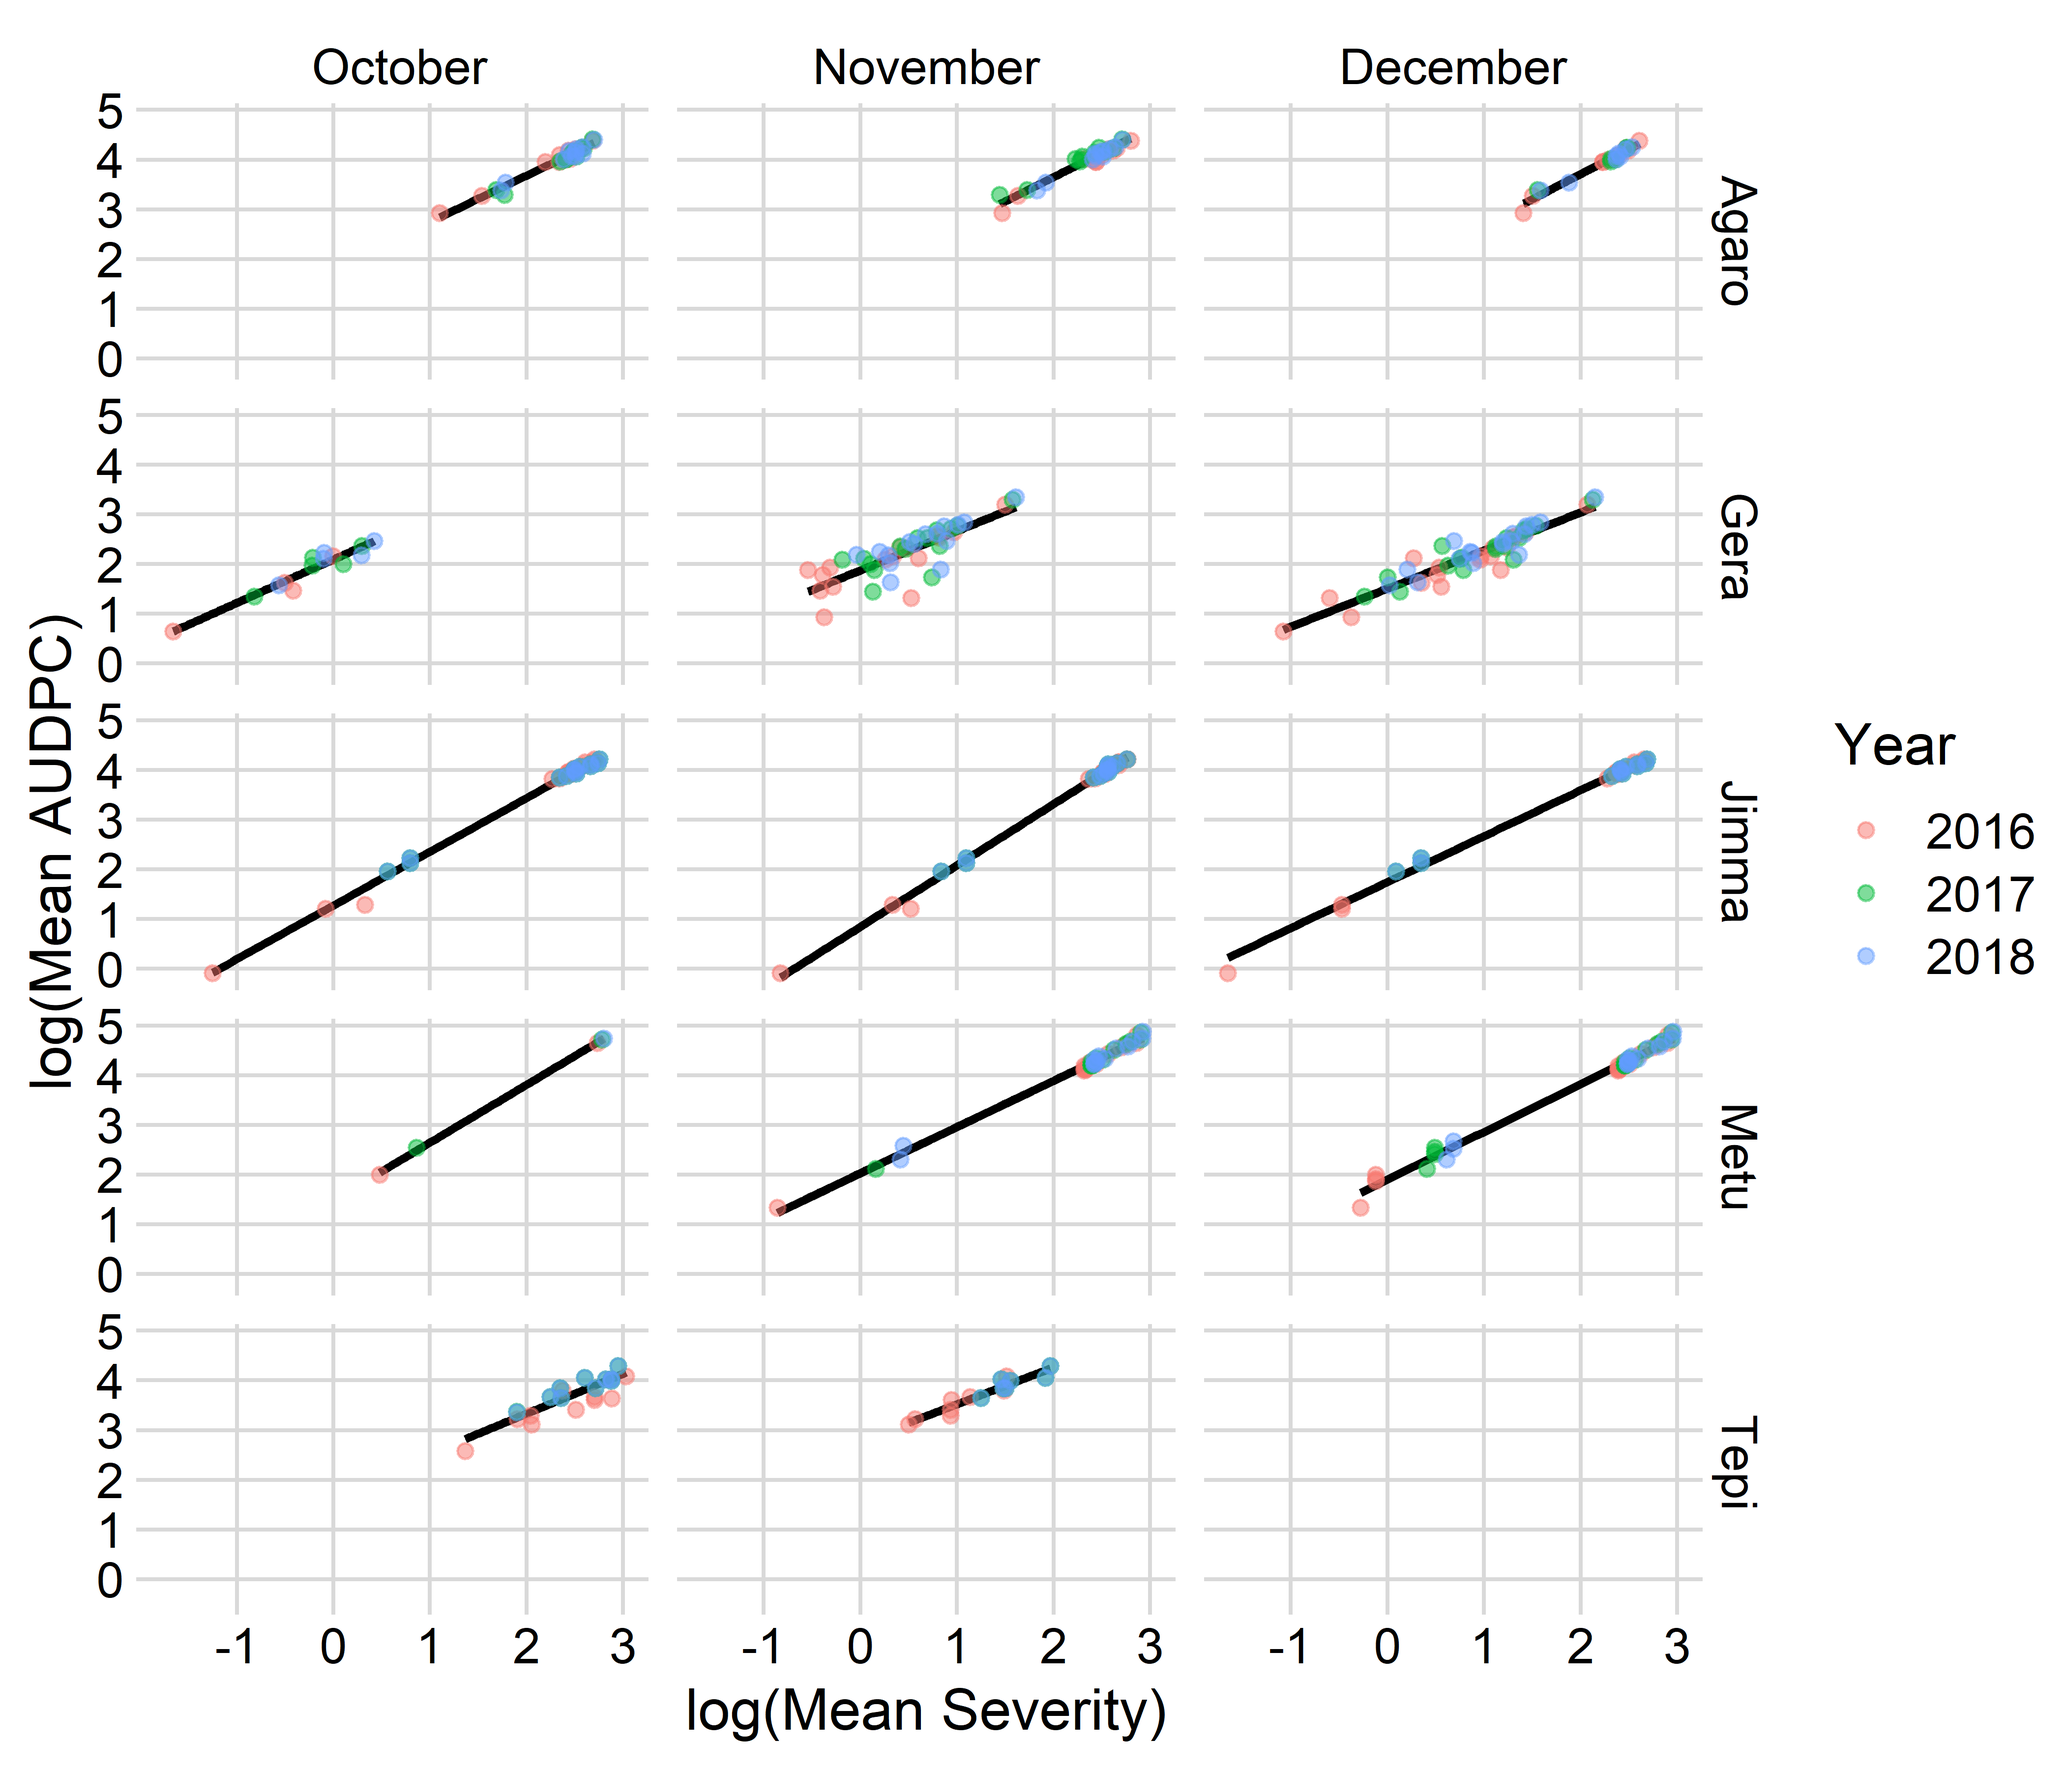
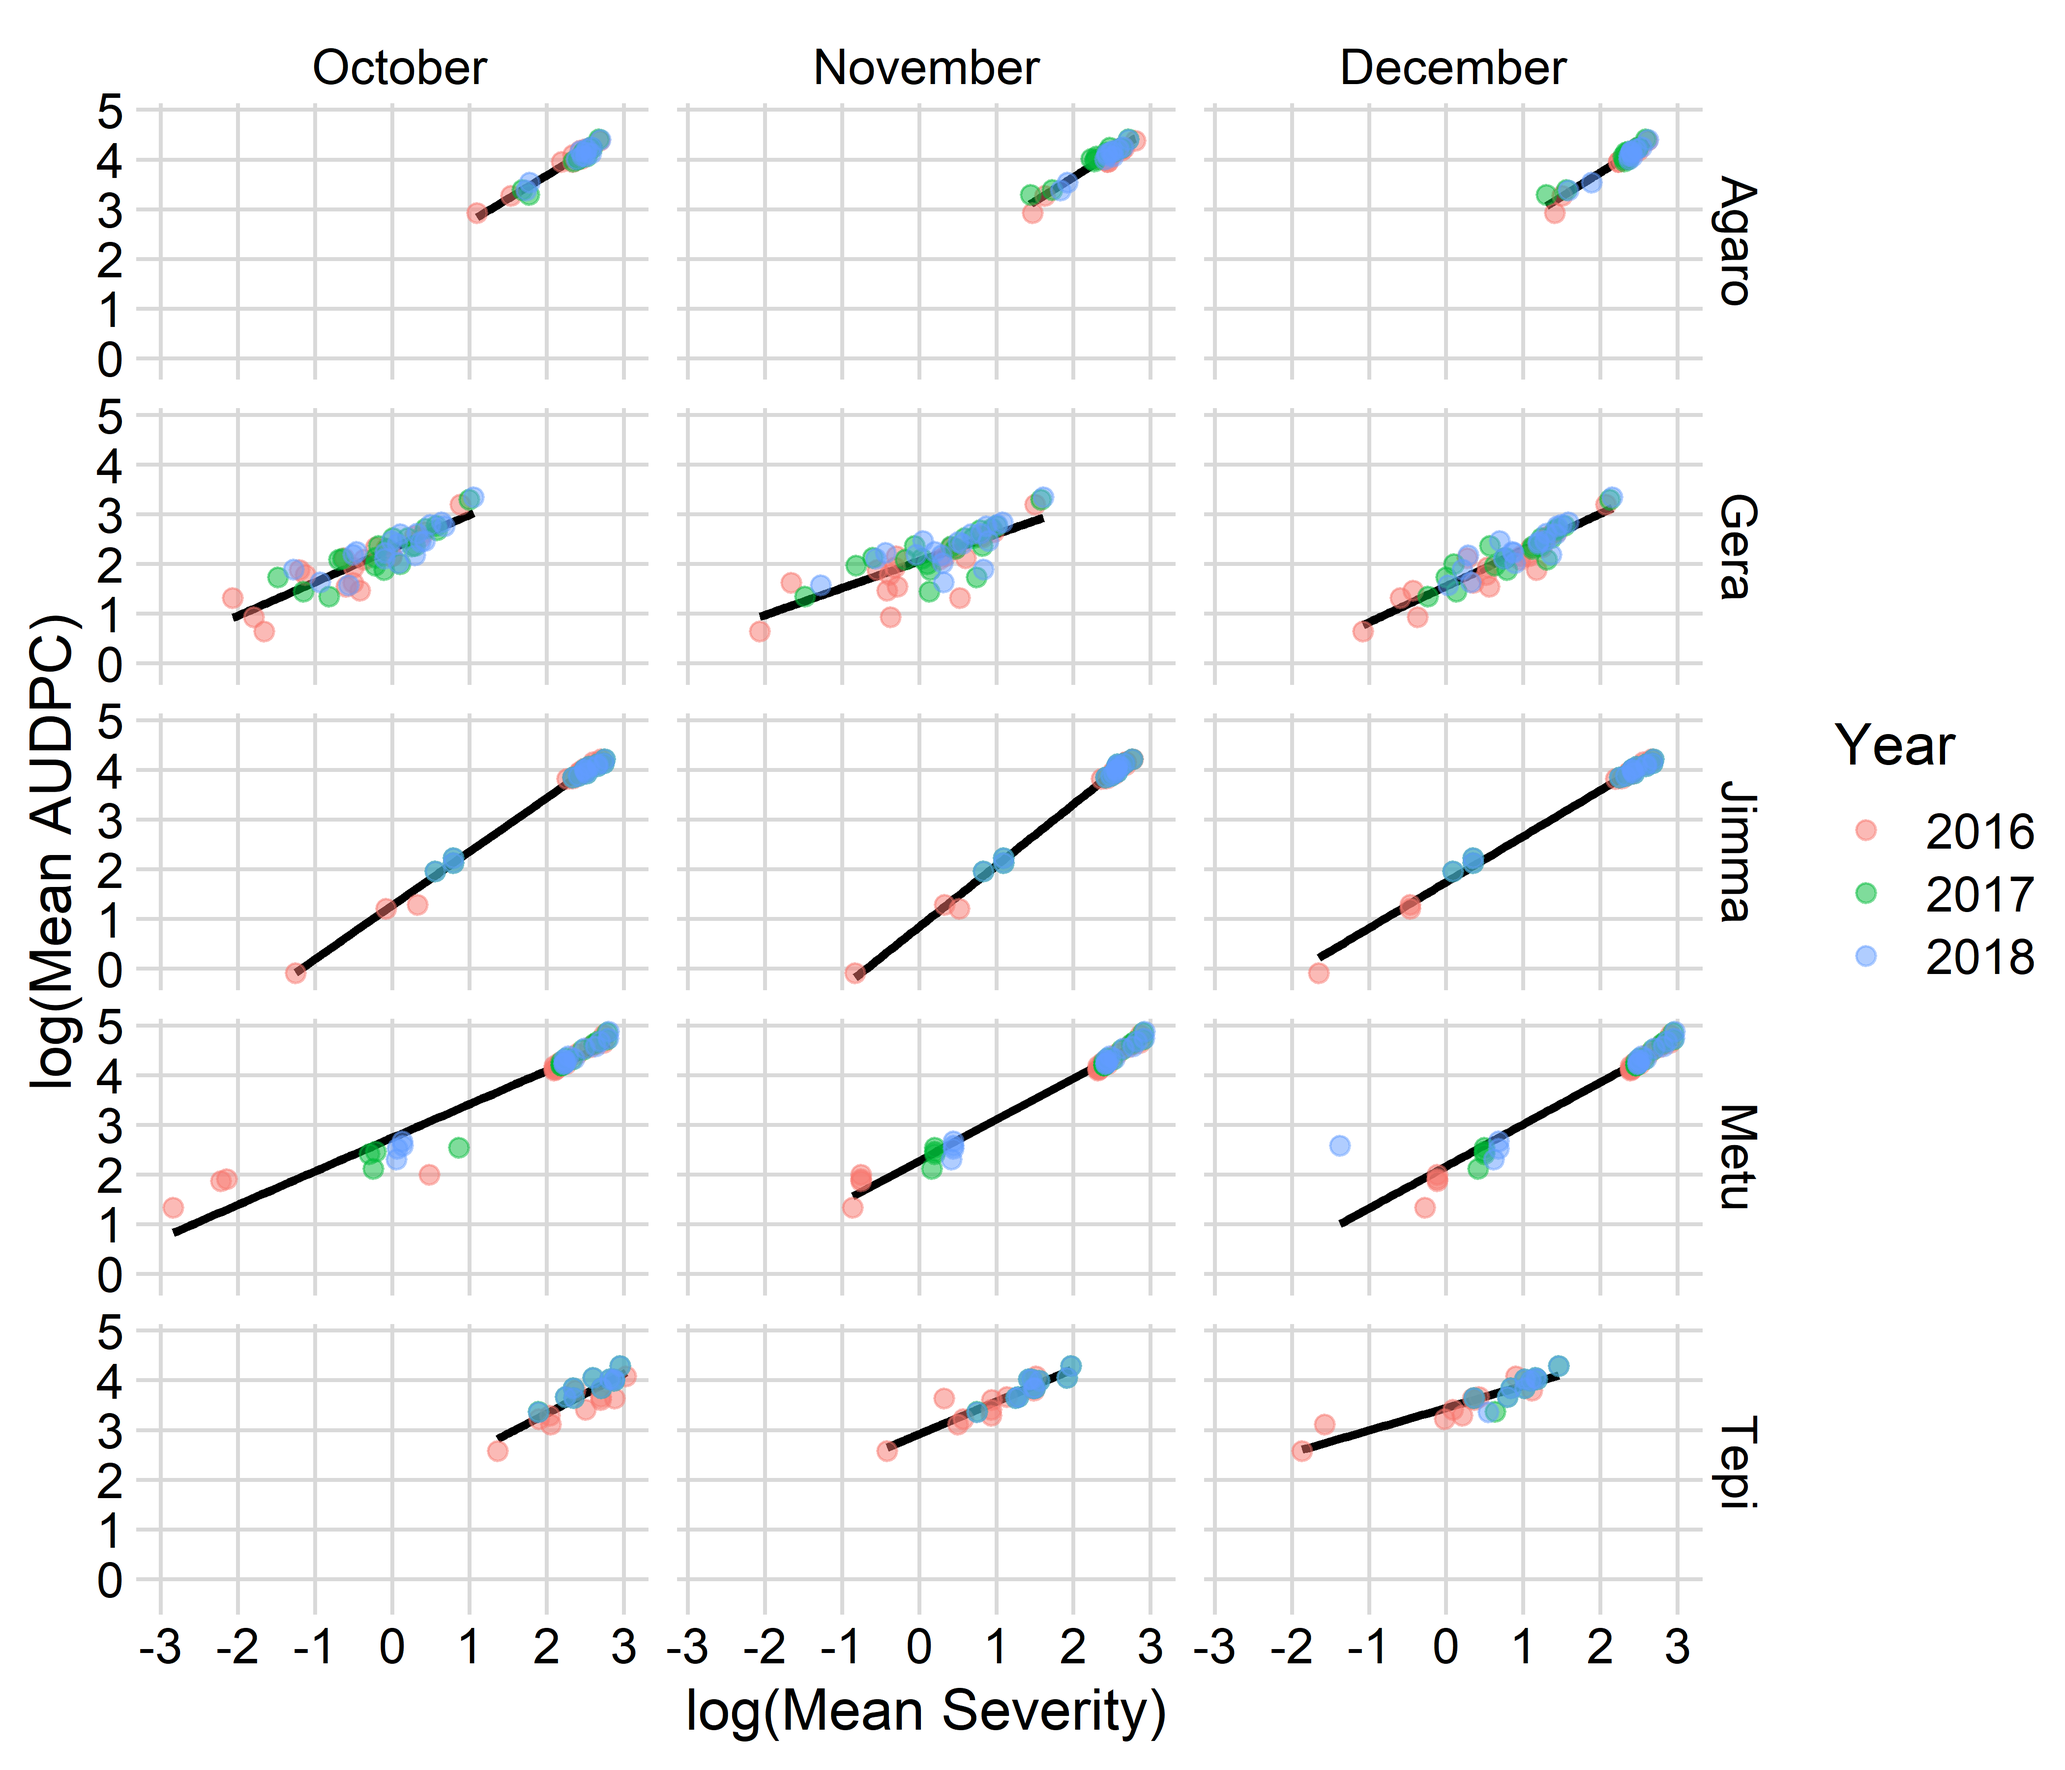
Updated figres.

diff --git a/docs/figures.html b/docs/figures.html
@@ -397,7 +397,7 @@ site_table &lt;- read.csv(&quot;data/Sites.csv&quot;)
 # Shapefile of Ethiopia
 et &lt;- sf::st_read(&quot;data/Map/Ethiopia.shp&quot;)</code></pre>
 <pre><code>## Reading layer `Ethiopia&#39; from data source 
-##   `G:\My Drive\paper-coffee-rust-curves-Ethiopia\paper-performace-of-coffee-varieties-against-leaf-rust\data\Map\Ethiopia.shp&#39; 
+##   `C:\Users\mohsi\OneDrive\Public\Coffee-varieties-against-CLR\data\Map\Ethiopia.shp&#39; 
 ##   using driver `ESRI Shapefile&#39;
 ## Simple feature collection with 11 features and 6 fields
 ## Geometry type: MULTIPOLYGON
@@ -407,7 +407,7 @@ et &lt;- sf::st_read(&quot;data/Map/Ethiopia.shp&quot;)</code></pre>
 <pre class="r"><code># Shapefile of study sites
 sites &lt;- sf::st_read(&quot;data/Map/CLR_Sites.shp&quot;)</code></pre>
 <pre><code>## Reading layer `CLR_Sites&#39; from data source 
-##   `G:\My Drive\paper-coffee-rust-curves-Ethiopia\paper-performace-of-coffee-varieties-against-leaf-rust\data\Map\CLR_Sites.shp&#39; 
+##   `C:\Users\mohsi\OneDrive\Public\Coffee-varieties-against-CLR\data\Map\CLR_Sites.shp&#39; 
 ##   using driver `ESRI Shapefile&#39;
 ## Simple feature collection with 5 features and 6 fields
 ## Geometry type: POINT
@@ -417,11 +417,11 @@ sites &lt;- sf::st_read(&quot;data/Map/CLR_Sites.shp&quot;)</code></pre>
 </div>
 <div id="attribute-table-of-sites" class="section level2">
 <h2>Attribute table of sites</h2>
-<pre class="r"><code>tab &lt;- site_table%&gt;% 
+<pre class="r"><code>tab &lt;- site_table %&gt;% 
   dplyr::select(-Longitude, -Latitude) %&gt;%
-  rename(`Altitude (m)` = Altitude..m.,
-         `Temp (min - max)` = T.oCÿ.min...max.,
-         `Rain (mm)` = Yearly.rain..mm.)
+  rename(`Altitude (m)` = `Altitude`,
+         `Temp (min - max)` = `Temp`,
+         `Rain (mm)` = `Rain`)
 tab</code></pre>
 <div data-pagedtable="false">
 <script data-pagedtable-source type="application/json">
@@ -429,21 +429,21 @@ tab</code></pre>
   </script>
 </div>
 <pre class="r"><code>library(gt)
-site_table%&gt;% 
-  dplyr::select(-Longitude, -Latitude) %&gt;%
+
+tab %&gt;% 
   gt() %&gt;% 
   cols_label(
-              Altitude..m. = html(&quot;Altitude &lt;br&gt; (m)&quot;),
-              T.oCÿ.min...max. = html(&quot;Temp&amp;deg;C &lt;br&gt; (min - max)&quot;),
-              Yearly.rain..mm. = html(&quot;Yearly rain &lt;br&gt; (min - max)&quot;)
+              `Altitude (m)` = html(&quot;Altitude &lt;br&gt; (m)&quot;),
+              `Temp (min - max)` = html(&quot;Temp&amp;deg;C &lt;br&gt; (min - max)&quot;),
+              `Rain (mm)` = html(&quot;Yearly rain &lt;br&gt; (min - max)&quot;)
             ) %&gt;%
   cols_align(align = &quot;center&quot;)</code></pre>
-<div id="jdcsjcswvu" style="overflow-x:auto;overflow-y:auto;width:auto;height:auto;">
+<div id="ufhynayvfg" style="overflow-x:auto;overflow-y:auto;width:auto;height:auto;">
 <style>html {
   font-family: -apple-system, BlinkMacSystemFont, 'Segoe UI', Roboto, Oxygen, Ubuntu, Cantarell, 'Helvetica Neue', 'Fira Sans', 'Droid Sans', Arial, sans-serif;
 }
 
-#jdcsjcswvu .gt_table {
+#ufhynayvfg .gt_table {
   display: table;
   border-collapse: collapse;
   margin-left: auto;
@@ -468,7 +468,7 @@ site_table%&gt;%
   border-left-color: #D3D3D3;
 }
 
-#jdcsjcswvu .gt_heading {
+#ufhynayvfg .gt_heading {
   background-color: #FFFFFF;
   text-align: center;
   border-bottom-color: #FFFFFF;
@@ -480,7 +480,7 @@ site_table%&gt;%
   border-right-color: #D3D3D3;
 }
 
-#jdcsjcswvu .gt_title {
+#ufhynayvfg .gt_title {
   color: #333333;
   font-size: 125%;
   font-weight: initial;
@@ -490,7 +490,7 @@ site_table%&gt;%
   border-bottom-width: 0;
 }
 
-#jdcsjcswvu .gt_subtitle {
+#ufhynayvfg .gt_subtitle {
   color: #333333;
   font-size: 85%;
   font-weight: initial;
@@ -500,13 +500,13 @@ site_table%&gt;%
   border-top-width: 0;
 }
 
-#jdcsjcswvu .gt_bottom_border {
+#ufhynayvfg .gt_bottom_border {
   border-bottom-style: solid;
   border-bottom-width: 2px;
   border-bottom-color: #D3D3D3;
 }
 
-#jdcsjcswvu .gt_col_headings {
+#ufhynayvfg .gt_col_headings {
   border-top-style: solid;
   border-top-width: 2px;
   border-top-color: #D3D3D3;
@@ -521,7 +521,7 @@ site_table%&gt;%
   border-right-color: #D3D3D3;
 }
 
-#jdcsjcswvu .gt_col_heading {
+#ufhynayvfg .gt_col_heading {
   color: #333333;
   background-color: #FFFFFF;
   font-size: 100%;
@@ -541,7 +541,7 @@ site_table%&gt;%
   overflow-x: hidden;
 }
 
-#jdcsjcswvu .gt_column_spanner_outer {
+#ufhynayvfg .gt_column_spanner_outer {
   color: #333333;
   background-color: #FFFFFF;
   font-size: 100%;
@@ -553,15 +553,15 @@ site_table%&gt;%
   padding-right: 4px;
 }
 
-#jdcsjcswvu .gt_column_spanner_outer:first-child {
+#ufhynayvfg .gt_column_spanner_outer:first-child {
   padding-left: 0;
 }
 
-#jdcsjcswvu .gt_column_spanner_outer:last-child {
+#ufhynayvfg .gt_column_spanner_outer:last-child {
   padding-right: 0;
 }
 
-#jdcsjcswvu .gt_column_spanner {
+#ufhynayvfg .gt_column_spanner {
   border-bottom-style: solid;
   border-bottom-width: 2px;
   border-bottom-color: #D3D3D3;
@@ -573,7 +573,7 @@ site_table%&gt;%
   width: 100%;
 }
 
-#jdcsjcswvu .gt_group_heading {
+#ufhynayvfg .gt_group_heading {
   padding: 8px;
   color: #333333;
   background-color: #FFFFFF;
@@ -595,7 +595,7 @@ site_table%&gt;%
   vertical-align: middle;
 }
 
-#jdcsjcswvu .gt_empty_group_heading {
+#ufhynayvfg .gt_empty_group_heading {
   padding: 0.5px;
   color: #333333;
   background-color: #FFFFFF;
@@ -610,15 +610,15 @@ site_table%&gt;%
   vertical-align: middle;
 }
 
-#jdcsjcswvu .gt_from_md > :first-child {
+#ufhynayvfg .gt_from_md > :first-child {
   margin-top: 0;
 }
 
-#jdcsjcswvu .gt_from_md > :last-child {
+#ufhynayvfg .gt_from_md > :last-child {
   margin-bottom: 0;
 }
 
-#jdcsjcswvu .gt_row {
+#ufhynayvfg .gt_row {
   padding-top: 8px;
   padding-bottom: 8px;
   padding-left: 5px;
@@ -637,7 +637,7 @@ site_table%&gt;%
   overflow-x: hidden;
 }
 
-#jdcsjcswvu .gt_stub {
+#ufhynayvfg .gt_stub {
   color: #333333;
   background-color: #FFFFFF;
   font-size: 100%;
@@ -649,7 +649,7 @@ site_table%&gt;%
   padding-left: 12px;
 }
 
-#jdcsjcswvu .gt_summary_row {
+#ufhynayvfg .gt_summary_row {
   color: #333333;
   background-color: #FFFFFF;
   text-transform: inherit;
@@ -659,7 +659,7 @@ site_table%&gt;%
   padding-right: 5px;
 }
 
-#jdcsjcswvu .gt_first_summary_row {
+#ufhynayvfg .gt_first_summary_row {
   padding-top: 8px;
   padding-bottom: 8px;
   padding-left: 5px;
@@ -669,7 +669,7 @@ site_table%&gt;%
   border-top-color: #D3D3D3;
 }
 
-#jdcsjcswvu .gt_grand_summary_row {
+#ufhynayvfg .gt_grand_summary_row {
   color: #333333;
   background-color: #FFFFFF;
   text-transform: inherit;
@@ -679,7 +679,7 @@ site_table%&gt;%
   padding-right: 5px;
 }
 
-#jdcsjcswvu .gt_first_grand_summary_row {
+#ufhynayvfg .gt_first_grand_summary_row {
   padding-top: 8px;
   padding-bottom: 8px;
   padding-left: 5px;
@@ -689,11 +689,11 @@ site_table%&gt;%
   border-top-color: #D3D3D3;
 }
 
-#jdcsjcswvu .gt_striped {
+#ufhynayvfg .gt_striped {
   background-color: rgba(128, 128, 128, 0.05);
 }
 
-#jdcsjcswvu .gt_table_body {
+#ufhynayvfg .gt_table_body {
   border-top-style: solid;
   border-top-width: 2px;
   border-top-color: #D3D3D3;
@@ -702,7 +702,7 @@ site_table%&gt;%
   border-bottom-color: #D3D3D3;
 }
 
-#jdcsjcswvu .gt_footnotes {
+#ufhynayvfg .gt_footnotes {
   color: #333333;
   background-color: #FFFFFF;
   border-bottom-style: none;
@@ -716,13 +716,13 @@ site_table%&gt;%
   border-right-color: #D3D3D3;
 }
 
-#jdcsjcswvu .gt_footnote {
+#ufhynayvfg .gt_footnote {
   margin: 0px;
   font-size: 90%;
   padding: 4px;
 }
 
-#jdcsjcswvu .gt_sourcenotes {
+#ufhynayvfg .gt_sourcenotes {
   color: #333333;
   background-color: #FFFFFF;
   border-bottom-style: none;
@@ -736,41 +736,41 @@ site_table%&gt;%
   border-right-color: #D3D3D3;
 }
 
-#jdcsjcswvu .gt_sourcenote {
+#ufhynayvfg .gt_sourcenote {
   font-size: 90%;
   padding: 4px;
 }
 
-#jdcsjcswvu .gt_left {
+#ufhynayvfg .gt_left {
   text-align: left;
 }
 
-#jdcsjcswvu .gt_center {
+#ufhynayvfg .gt_center {
   text-align: center;
 }
 
-#jdcsjcswvu .gt_right {
+#ufhynayvfg .gt_right {
   text-align: right;
   font-variant-numeric: tabular-nums;
 }
 
-#jdcsjcswvu .gt_font_normal {
+#ufhynayvfg .gt_font_normal {
   font-weight: normal;
 }
 
-#jdcsjcswvu .gt_font_bold {
+#ufhynayvfg .gt_font_bold {
   font-weight: bold;
 }
 
-#jdcsjcswvu .gt_font_italic {
+#ufhynayvfg .gt_font_italic {
   font-style: italic;
 }
 
-#jdcsjcswvu .gt_super {
+#ufhynayvfg .gt_super {
   font-size: 65%;
 }
 
-#jdcsjcswvu .gt_footnote_marks {
+#ufhynayvfg .gt_footnote_marks {
   font-style: italic;
   font-weight: normal;
   font-size: 65%;
@@ -834,7 +834,7 @@ inset &lt;- tm_shape(et) +
 ggplot() +
   geom_sf(data = sites, col = 1, size = 2) +
   coord_sf(xlim = c(35, 38), ylim = c(6.9, 8.5)) +
-  ggrepel::geom_text_repel(data = sites, aes(x = Longitude, y = Latitude, label = Site), nudge_y = 0.1, nudge_x = 0.1) +
+  ggrepel::geom_text_repel(data = sites, aes(x = Longitude, y = Latitude, label = Site), nudge_y = 0.06, nudge_x = 0.06) +
   theme_bw() +
   theme(panel.grid = element_blank()) +
   labs(x = &quot;Longitude&quot;, y = &quot;Latitude&quot;, fill = &quot;&quot;) +
@@ -922,15 +922,15 @@ audpc %&gt;%
   summarise(Severity_mean = mean(Severity, na.rm = TRUE),
             AUDPCm_mean = mean(AUDPCm, na.rm = TRUE)) %&gt;%
   ungroup() %&gt;% 
-  group_by(year,site, variety) %&gt;%
-  slice_max(Severity_mean, n = 3) %&gt;%
-  ungroup() %&gt;%
+  #group_by(year,site, variety) %&gt;%
+  #slice_max(Severity_mean, n = 3) %&gt;%
+  #ungroup() %&gt;%
   filter(Month %in% c(10, 11, 12)) %&gt;% 
   mutate(Month = recode(Month, `10` = &quot;October&quot;, `11` = &quot;November&quot;, `12` = &quot;December&quot;)) %&gt;% 
   mutate(Month = factor(Month, levels = months)) %&gt;% 
   ggplot(aes(log(Severity_mean), log(AUDPCm_mean))) +
   geom_smooth(method = &quot;lm&quot;, colour = &quot;black&quot;, se = FALSE) +
-  geom_point(aes(color = factor(year)), alpha = 0.5) +
+  geom_point(aes(color = factor(year)), size = 2, alpha = 0.5) +
   labs(x = &quot;log(Mean Severity)&quot;, y = &quot;log(Mean AUDPC)&quot;, color = &quot;Year&quot;) +
   theme(legend.position = &quot;right&quot;) +
   facet_grid(site ~ Month)</code></pre>
